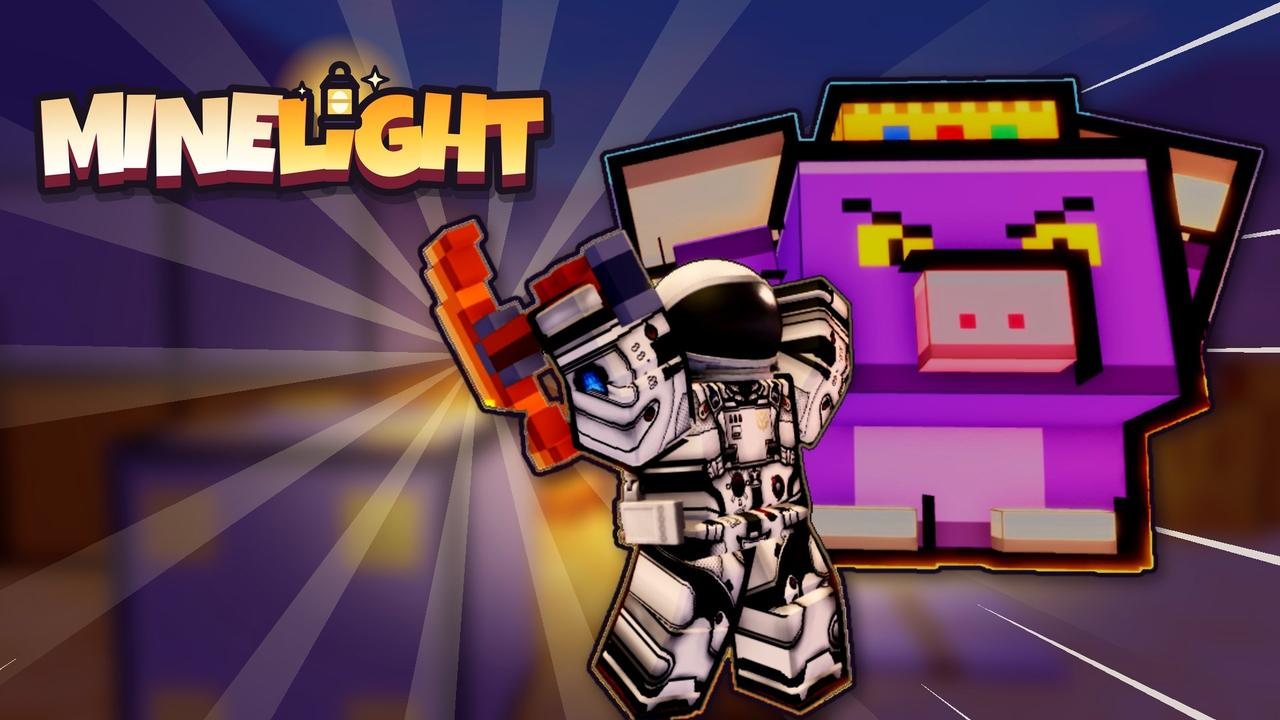
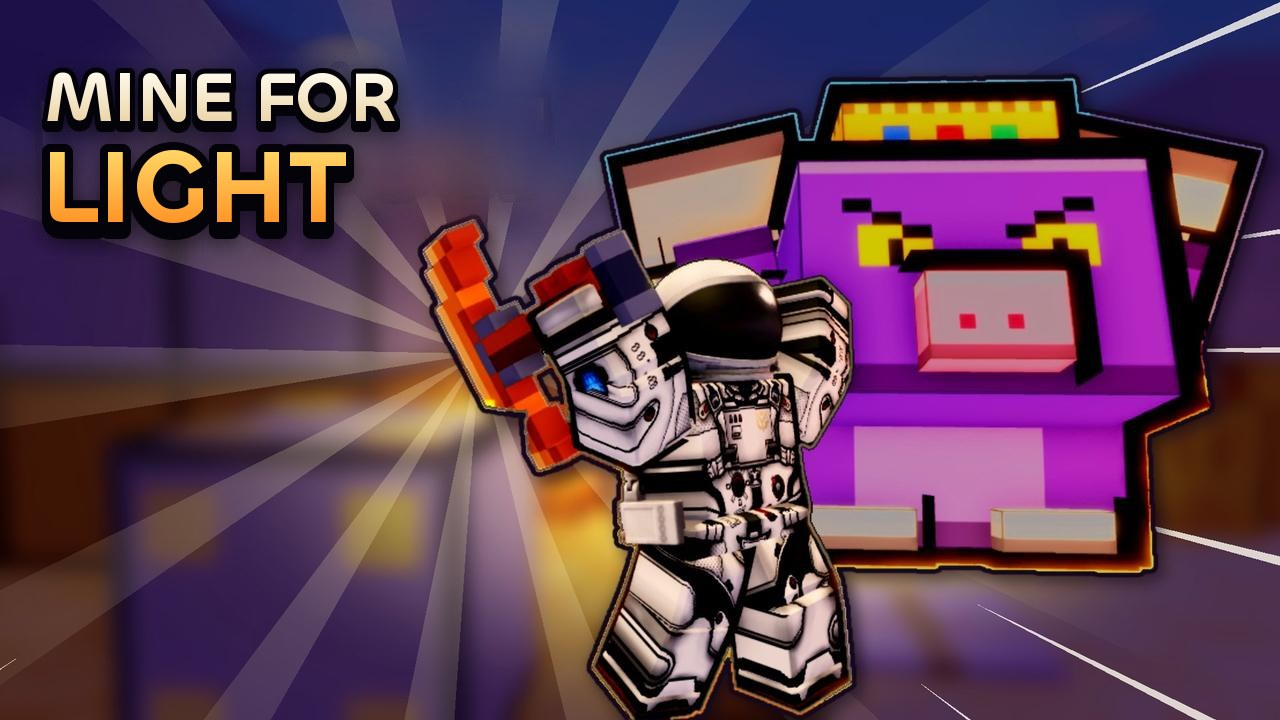
minelight: rename the page to Mine for Light (#102)

Changed region(s): [[0.0, 0.0611, 0.4375, 0.3361]]

diff --git a/src/app/minelight/page.tsx b/src/app/minelight/page.tsx
@@ -12,15 +12,15 @@ import "./minelight.css";
 // without a redeploy. Everything else on the page is static.
 export const revalidate = 180;
 
-const TITLE = "Minelight, explained: the game from the loop down to the toolchain";
+const TITLE = "Mine for Light, explained: the game from the loop down to the toolchain";
 const DESCRIPTION =
-  "How Minelight works, a co-op action mining game for Roblox: the loop, floors, bestiary, camera, cel look, UI, audio, the server-authoritative architecture and the agent crew that builds it, with a live feed of what shipped.";
+  "How Mine for Light works, a co-op action mining game for Roblox: the loop, floors, bestiary, camera, cel look, UI, audio, the server-authoritative architecture and the agent crew that builds it, with a live feed of what shipped.";
 
 export const metadata: Metadata = {
   title: TITLE,
   description: DESCRIPTION,
   alternates: { canonical: "/minelight" },
-  openGraph: { title: TITLE, description: DESCRIPTION, url: "/minelight", type: "article", images: [{ url: "/minelight/img/og.jpg", width: 1200, height: 630, alt: "Minelight key art: an in-engine capture of a miner and the Mole King" }] },
+  openGraph: { title: TITLE, description: DESCRIPTION, url: "/minelight", type: "article", images: [{ url: "/minelight/img/og.jpg", width: 1200, height: 630, alt: "Mine for Light key art: an in-engine capture of a miner and the Mole King" }] },
   twitter: { card: "summary_large_image", title: TITLE, description: DESCRIPTION, images: ["/minelight/img/og.jpg"] },
 };
 
@@ -77,8 +77,8 @@ export default async function MinelightPage() {
 
         <header className="ml-hero">
           <div>
-            <h1 style={{ margin: 0 }}>
-              <img src="/minelight/img/logo-wide.webp" srcSet="/minelight/img/logo-wide-600.webp 600w, /minelight/img/logo-wide.webp 1024w" sizes="(min-width: 900px) 520px, 90vw" width={1024} height={242} alt="MINELIGHT" className="ml-logo" />
+            <h1 className="ml-wordmark">
+              <span>Mine for</span> <span className="lt">Light</span>
             </h1>
             <p className="ml-kicker">A co-op action mining game for Roblox</p>
             <p className="ml-lede">Dig deep with your friends. Smash monsters, crack glowing ore, beat the boss, forge better gear.</p>
@@ -89,7 +89,7 @@ export default async function MinelightPage() {
           </div>
           <figure className="ml-poster">
             <img src="/minelight/img/poster-1280.jpg" srcSet="/minelight/img/poster-640.jpg 640w, /minelight/img/poster-1280.jpg 1280w" sizes="(min-width: 900px) 540px, 100vw" width={1280} height={720} alt="A miner in a white space suit raises a pickaxe in front of the purple Mole King" />
-            <figcaption><span className="ml-badge art">In-engine + key art</span>A real in-engine capture of the Golden Room, graded, with rays and the logo added.</figcaption>
+            <figcaption><span className="ml-badge art">In-engine + key art</span>A real in-engine capture of the Golden Room, graded, with rays and the title added.</figcaption>
           </figure>
         </header>
 
@@ -130,14 +130,14 @@ export default async function MinelightPage() {
           </div>
         </Section>
 
-        <Section id="what" eyebrow="01 · The pitch" title="What Minelight is">
+        <Section id="what" eyebrow="01 · The pitch" title="What Mine for Light is">
           <div className="ml-col">
             <p>
-              Minelight is a co-op action mining crawler. Up to four friends drop into a mine as their own Roblox avatars. They swing, dig, dodge, crack glowing ore and fight to a boss, then
+              Mine for Light is a co-op action mining crawler. Up to four friends drop into a mine as their own Roblox avatars. They swing, dig, dodge, crack glowing ore and fight to a boss, then
               go back to town, forge better gear and dive deeper. A dive takes minutes, so a phone player at a bus stop can finish one and a group of friends can do three in a session.
             </p>
             <p>
-              Other mining games are about the grind. Minelight is a boss raid in a mine with your friends: short, loud dives that end in a fight. Four rules decide what gets built.
+              Other mining games are about the grind. Mine for Light is a boss raid in a mine with your friends: short, loud dives that end in a fight. Four rules decide what gets built.
             </p>
           </div>
           <div className="ml-grid two">
@@ -483,7 +483,7 @@ export default async function MinelightPage() {
         <Section id="crew" eyebrow="15 · The studio" title="How the agent crew builds it">
           <div className="ml-col">
             <p>
-              Minelight is built by a crew of AI agents with one human director. A Captain agent turns direction into briefs and gives every piece of work one owner. About thirty crew agents each own a
+              Mine for Light is built by a crew of AI agents with one human director. A Captain agent turns direction into briefs and gives every piece of work one owner. About thirty crew agents each own a
               lane (the look, UI, combat, floors, audio, the camera, the tools) and work spec, tickets, tests first, code, forge check, playbot, review, pull request. Cheaper models draft the bulk tickets on
               the build boxes, and a stronger model reviews everything before it lands.
             </p>

diff --git a/src/app/minelight/minelight.css b/src/app/minelight/minelight.css
@@ -1,4 +1,4 @@
-/* /minelight: Minelight explained, from the player loop down to the toolchain.
+/* /minelight: Mine for Light explained, from the player loop down to the toolchain.
    Everything is scoped under .ml so nothing reaches another page. Server-rendered, no client JS. */
 @font-face { font-family: "Chillax ML"; src: url("/fonts/chillax-600.woff2") format("woff2"); font-weight: 600; font-display: swap; }
 
@@ -44,7 +44,9 @@ body:has(.ml) { background: #100c1c; }
 /* Hero */
 .ml-hero { padding: 28px 0 8px; display: grid; gap: 28px; grid-template-columns: 1fr; align-items: center; }
 @media (min-width: 900px) { .ml-hero { grid-template-columns: 1fr 1.05fr; padding-top: 40px; } }
-.ml-logo { width: 100%; max-width: 520px; height: auto; display: block; filter: drop-shadow(0 6px 0 rgba(5, 3, 10, 0.6)); }
+.ml-wordmark { margin: 0; font-family: var(--display); font-weight: 600; text-transform: uppercase; letter-spacing: 0.01em; line-height: 0.95; font-size: clamp(42px, 7.4vw, 66px); color: #fff4dc; text-shadow: 0.045em 0em 0 var(--ink), -0.045em 0em 0 var(--ink), 0em 0.045em 0 var(--ink), 0em -0.045em 0 var(--ink), 0.032em 0.032em 0 var(--ink), -0.032em 0.032em 0 var(--ink), 0.032em -0.032em 0 var(--ink), -0.032em -0.032em 0 var(--ink), 0 0.1em 0 #5b1c2c, 0 0.135em 0 var(--ink), 0 0.2em 0.3em rgba(5, 3, 10, 0.55); }
+.ml-wordmark span { display: block; }
+.ml-wordmark .lt { font-size: 1.48em; color: var(--amber); margin-top: 0.02em; }
 .ml-kicker { font-size: 13px; letter-spacing: 0.14em; text-transform: uppercase; color: var(--amber); font-weight: 700; margin: 18px 0 8px; }
 .ml-lede { font-size: 20px; line-height: 1.5; color: var(--cream); margin: 0 0 12px; }
 .ml-sub { color: var(--muted); margin: 0; }

diff --git a/src/app/minelight/Launch.tsx b/src/app/minelight/Launch.tsx
@@ -2,7 +2,7 @@
 // A loop on the crew's Linux base reads docs/launch/READINESS.md on the game repo's main every 3 minutes, scrubs it
 // to public-safe text (store and money lines show only their colour and owner) and writes launch.json to the same
 // public gist as the feed. The page reads it when it rebuilds, at most every 180 s, so no token is ever on the site.
-const LAUNCH_URL = "https://gist.githubusercontent.com/jawadjalal/04eb0fef24e83e3856a51ad0fc3214b9/raw/launch.json";
+const LAUNCH_URL = "https://gist.githubusercontent.com/jawadjalal/04eb0fef24e83e3856a51ad0fc3214b9/raw/board.json";
 const TZ = "Europe/London";
 
 type Status = "red" | "amber" | "green" | "killed";

diff --git a/src/app/mine-for-light/page.tsx b/src/app/mine-for-light/page.tsx
@@ -1,0 +1,5 @@
+import { redirect } from "next/navigation";
+
+export default function MineForLight() {
+  redirect("/minelight");
+}
